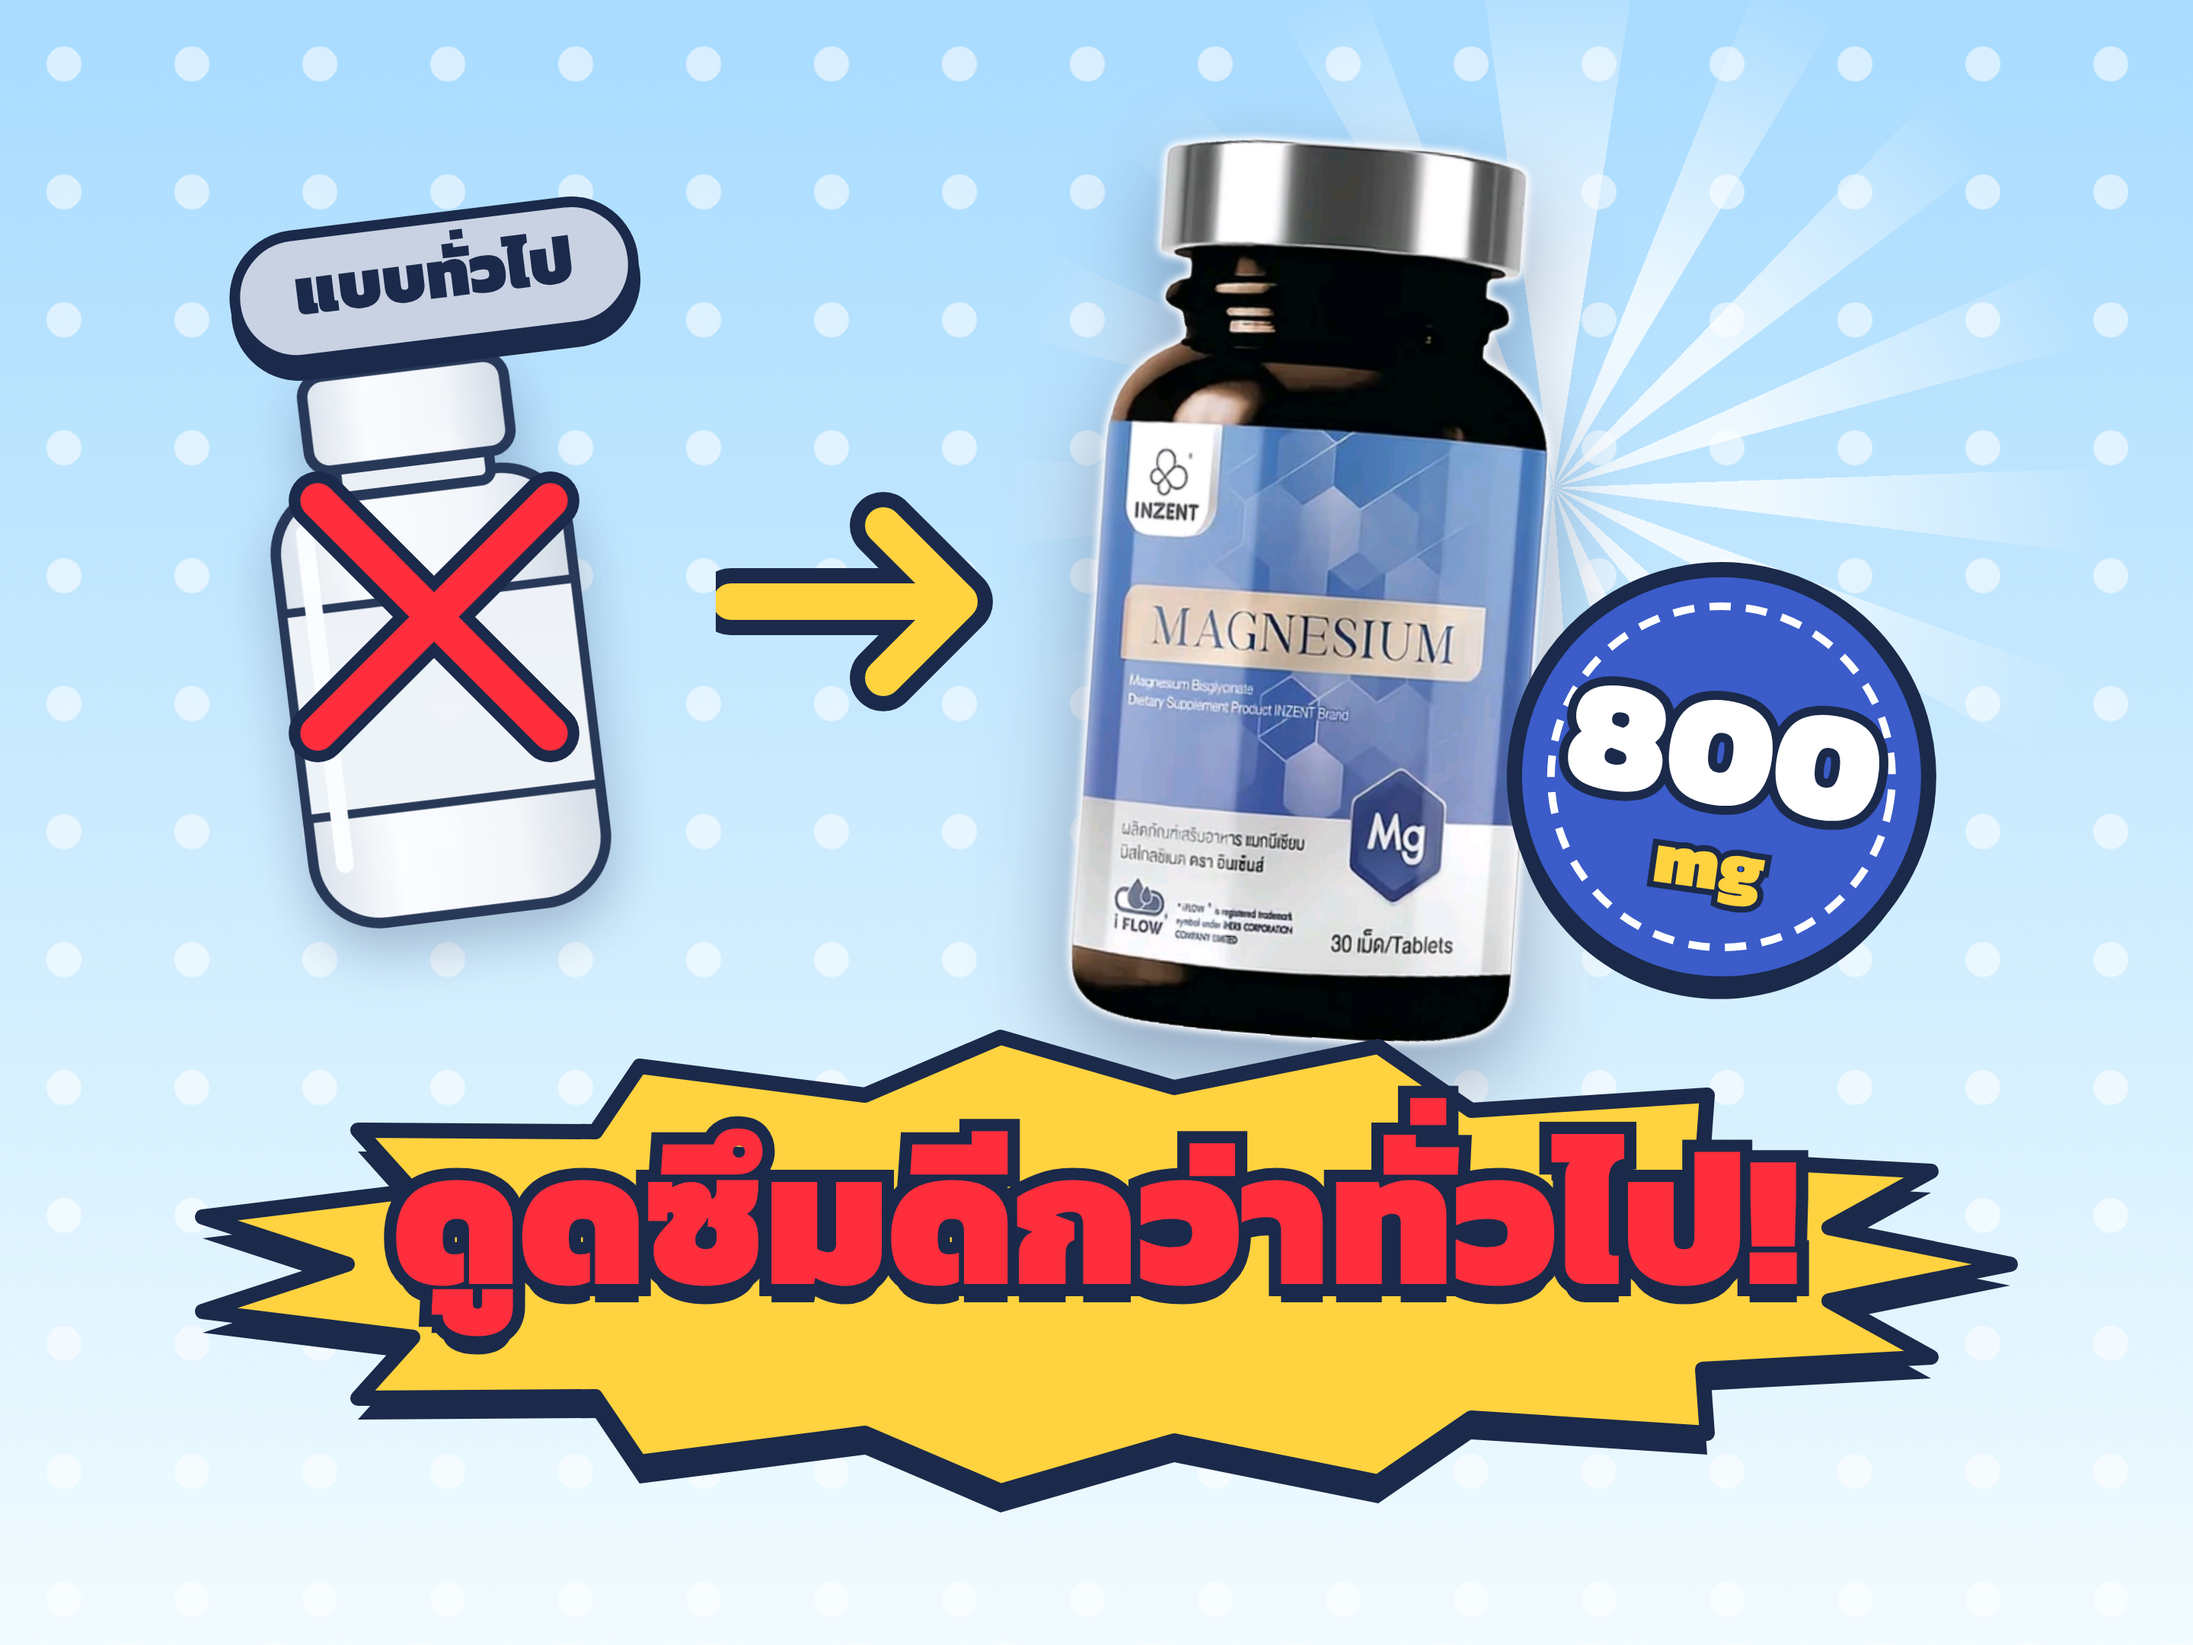
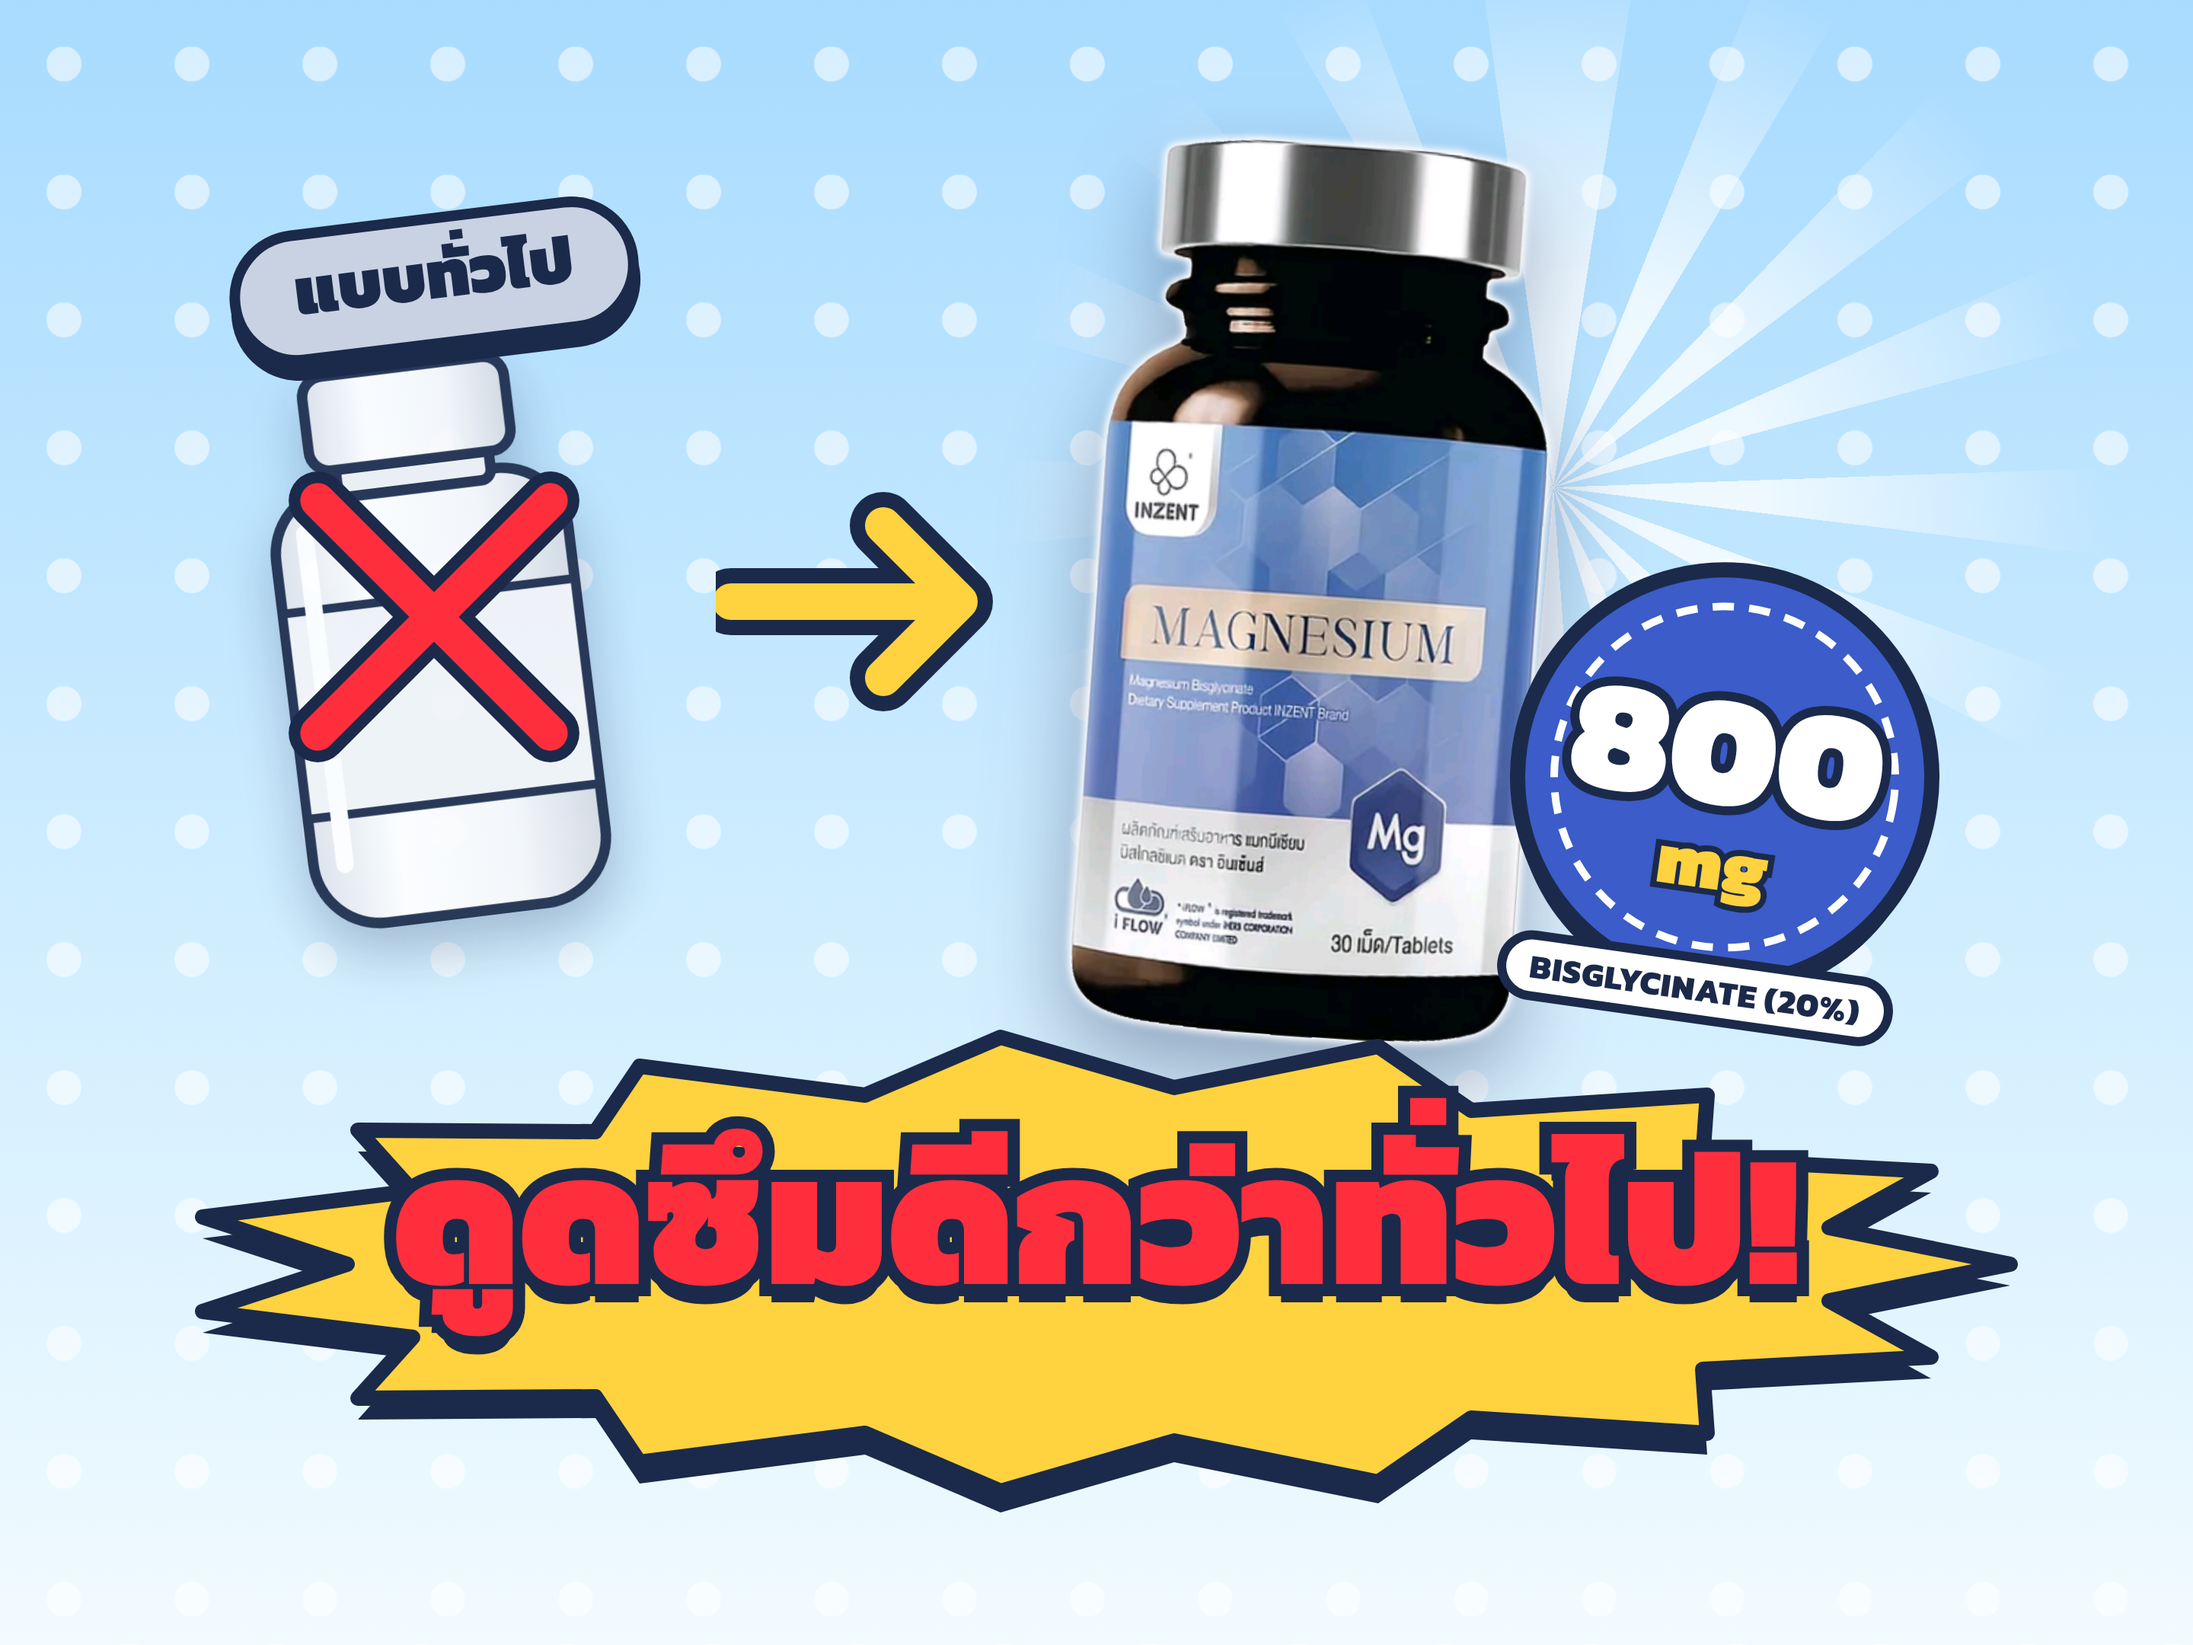
1311 cover: add BISGLYCINATE (20%) label under the 800 mg badge
Claude-Session: https://claude.ai/code/session_013vK57e4V6MU13RVwJvX1wC

Changed region(s): [[0.6875, 0.3722, 0.9062, 0.6514]]

diff --git a/output/src/1311/cover/cover.html b/output/src/1311/cover/cover.html
@@ -77,7 +77,7 @@ body{font-family:K,sans-serif;color:#1B2A4A}
 <svg style="position:absolute;left:470px;top:320px" width="200" height="150" viewBox="0 0 200 150"><path d="M10 75H150M110 25l50 50l-50 50" fill="none" stroke="#1B2A4A" stroke-width="44" stroke-linecap="round" stroke-linejoin="round"/><path d="M10 75H150M110 25l50 50l-50 50" fill="none" stroke="#FFD23F" stroke-width="24" stroke-linecap="round" stroke-linejoin="round"/></svg>
 <!-- right: INZENT magnesium -->
 <div class="img" style="position:absolute;left:720px;top:95px;width:290px;height:586px;background-image:url(mgjar.png);filter:drop-shadow(0 0 3px #fff) drop-shadow(0 0 2px #fff) drop-shadow(0 26px 30px rgba(40,50,90,.4));transform:rotate(4deg)"></div>
-<div style="position:absolute;left:980px;top:360px;transform:rotate(8deg)"><svg width="300" height="300" viewBox="0 0 300 300"><circle cx="150" cy="150" r="136" fill="#1B2A4A" transform="translate(0 10)"/><circle cx="150" cy="150" r="136" fill="#3B5CC9" stroke="#1B2A4A" stroke-width="10"/><circle cx="150" cy="150" r="112" fill="none" stroke="#fff" stroke-width="5" stroke-dasharray="14 10"/><text x="150" y="168" text-anchor="middle" font-family="K" font-weight="900" font-size="104" fill="#fff" stroke="#1B2A4A" stroke-width="12" paint-order="stroke fill">800</text><text x="150" y="224" text-anchor="middle" font-family="K" font-weight="900" font-size="50" fill="#FFD23F" stroke="#1B2A4A" stroke-width="8" paint-order="stroke fill">mg</text></svg></div>
+<div style="position:absolute;left:980px;top:360px;transform:rotate(8deg)"><svg width="300" height="330" viewBox="0 0 300 330" style="overflow:visible"><circle cx="150" cy="150" r="136" fill="#1B2A4A" transform="translate(0 10)"/><circle cx="150" cy="150" r="136" fill="#3B5CC9" stroke="#1B2A4A" stroke-width="10"/><circle cx="150" cy="150" r="112" fill="none" stroke="#fff" stroke-width="5" stroke-dasharray="14 10"/><text x="150" y="168" text-anchor="middle" font-family="K" font-weight="900" font-size="104" fill="#fff" stroke="#1B2A4A" stroke-width="12" paint-order="stroke fill">800</text><text x="150" y="224" text-anchor="middle" font-family="K" font-weight="900" font-size="50" fill="#FFD23F" stroke="#1B2A4A" stroke-width="8" paint-order="stroke fill">mg</text><rect x="22" y="270" width="256" height="40" rx="20" fill="#fff" stroke="#1B2A4A" stroke-width="6"/><text x="150" y="298" text-anchor="middle" font-family="K" font-weight="800" font-size="22" letter-spacing="0.5" fill="#1B2A4A">BISGLYCINATE (20%)</text></svg></div>
 <!-- headline -->
 <svg style="position:absolute;left:100px;top:690px;overflow:visible" width="1240" height="280" viewBox="0 0 1240 280"><polygon points="1220,140 1101,164 1168,201 1018,209 1021,251 866,241 805,283 671,256 557,289 468,251 320,270 291,227 135,228 171,188 33,171 128,140 33,109 171,92 135,52 291,53 320,10 468,29 557,-9 671,24 805,-3 866,39 1021,29 1018,71 1168,79 1101,116" fill="#1B2A4A" transform="translate(0 14)"/><polygon points="1220,140 1101,164 1168,201 1018,209 1021,251 866,241 805,283 671,256 557,289 468,251 320,270 291,227 135,228 171,188 33,171 128,140 33,109 171,92 135,52 291,53 320,10 468,29 557,-9 671,24 805,-3 866,39 1021,29 1018,71 1168,79 1101,116" fill="#FFD23F" stroke="#1B2A4A" stroke-width="10" stroke-linejoin="round"/></svg>
 <div class="kt" style="top:722px;font-size:124px;color:#FF2E3D">ดูดซึมดีกว่าทั่วไป!</div>
